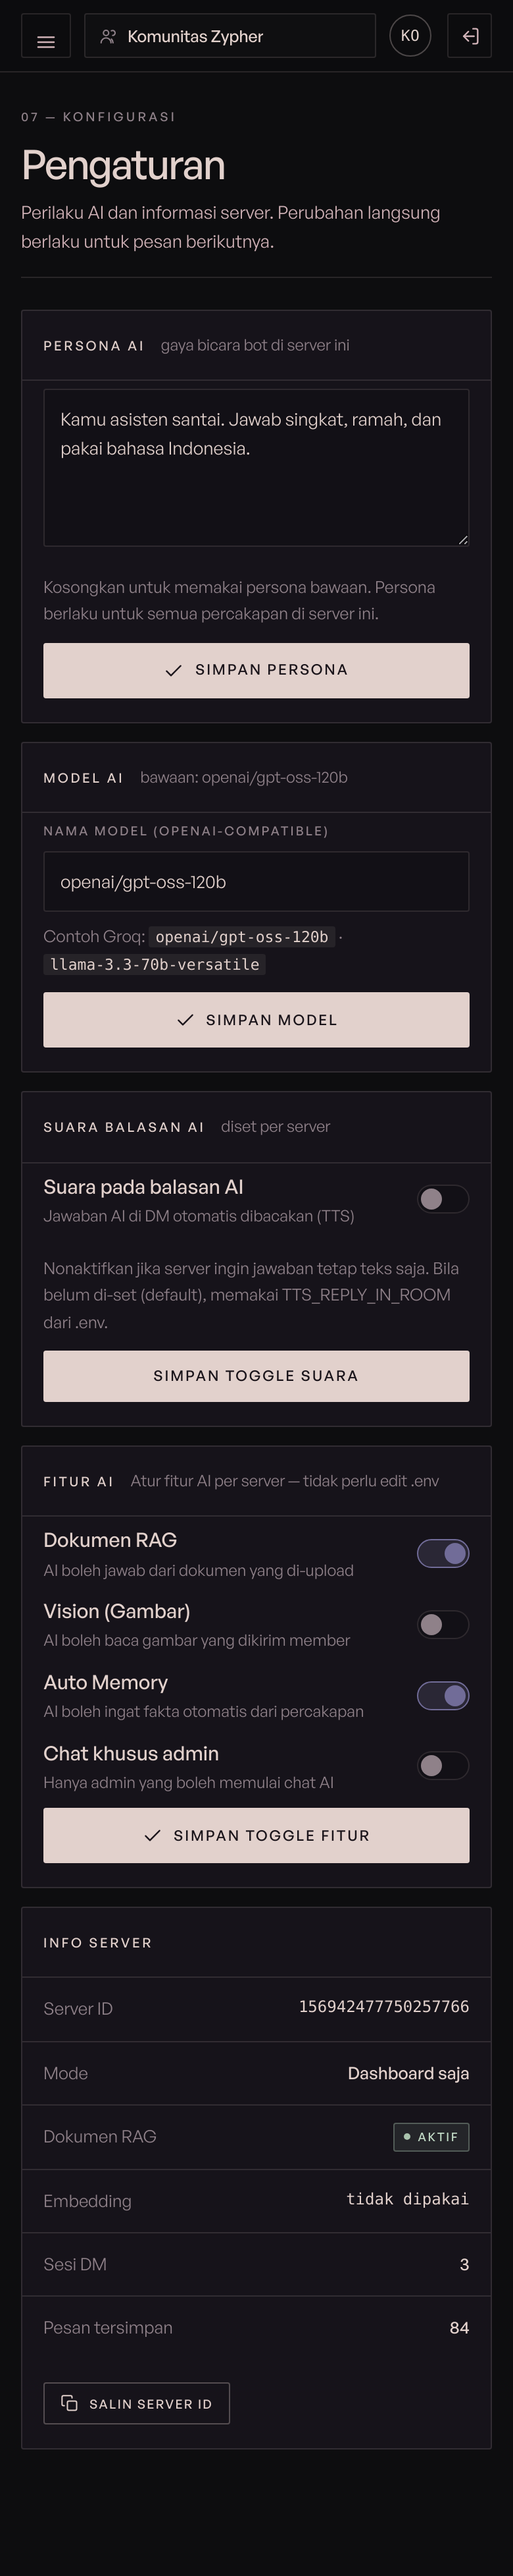
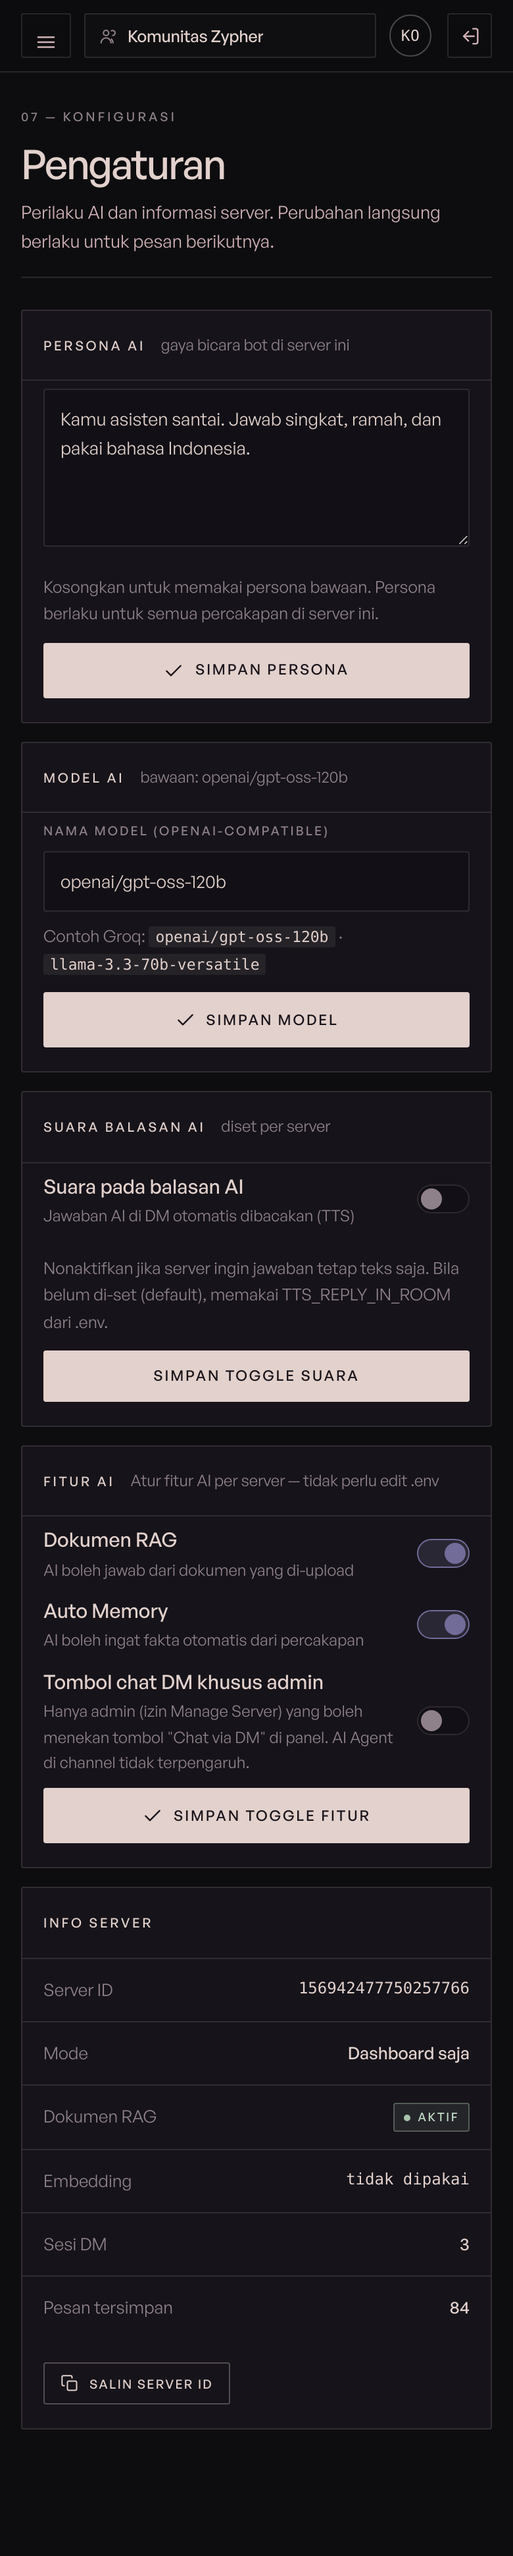
refactor: vision selalu aktif, label toggle admin diperjelas, roadmap dihapus
Pertanyaan: apa arti toggle "Chat khusus admin"? Labelnya ambigu — terbaca
seolah membatasi semua chat AI, padahal ia hanya menjaga satu tombol.

Isi sebenarnya: hanya member dengan izin Manage Server yang boleh menekan
tombol "Chat via DM" di panel server (src/features/buttons.ts). AI Agent di
channel, keyword, moderasi, dan /tanya sama sekali tidak terpengaruh.

Perubahan:
- Label diganti jadi "Tombol chat DM khusus admin" + penjelasan eksplisit
  (izin Manage Server, batasnya sampai mana). Nilai database & env tidak
  berubah, jadi setelan yang sudah ada tetap berlaku.
- Toggle Vision dihapus dan vision dibuat selalu aktif:
  * src/features/vision.ts tidak lagi membaca setelan per server
  * VISION_ENABLED dibuang dari config & .env.example
  * kolom vision_enabled dibuang dari skema SQLite/Postgres, ALTER TABLE,
    rencana migrasi, dan seed screenshot
  * doctor menampilkan "selalu aktif"
  * yang tersisa hanya VISION_MODEL & VISION_MAX_MB
- Roadmap "ide berikutnya" di README dihapus: semua isinya sudah selesai.

Perbaikan tata letak yang ikut ditemukan: penjelasan toggle yang panjang
terpotong di layar HP. .toggle-row adalah grid item dengan min-width:auto,
jadi selebar teksnya (730px di viewport 390px) dan kartu memotong sisanya.
Ditambah .cell-sub mewarisi white-space:nowrap dari aturan mobile. Kini
dibatasi min-width:0 dan penjelasannya dibungkus .toggle-text.

Verifikasi: typecheck 0 error, 219 test lulus (1 baru untuk regresi CSS),
[…]

diff --git a/scripts/smoke.ts b/scripts/smoke.ts
@@ -1155,13 +1155,18 @@ await testAsync('setGuildRagEnabled menyimpan boolean', async () => {
   await setGuildRagEnabled(guild, null);
   assert.equal((await getGuildSettings(guild))?.ragEnabled, null);
 });
-await testAsync('setGuildVisionEnabled menyimpan boolean', async () => {
-  const { setGuildVisionEnabled, getGuildSettings } = await import('../src/db/repo.js');
+await testAsync('vision selalu aktif: tidak ada kolom atau sakelar per server', async () => {
+  const repo = await import('../src/db/repo.js');
+  const { getGuildSettings, setGuildAutoMemory } = repo;
   const guild = '131313131313131313';
-  await setGuildVisionEnabled(guild, true);
-  assert.equal((await getGuildSettings(guild))?.visionEnabled, true);
-  await setGuildVisionEnabled(guild, null);
-  assert.equal((await getGuildSettings(guild))?.visionEnabled, null);
+  await setGuildAutoMemory(guild, true);
+  const settings = await getGuildSettings(guild);
+  assert.ok(settings, 'setelan guild bisa dibaca');
+  assert.equal('visionEnabled' in settings!, false, 'tidak ada field visionEnabled lagi');
+  assert.equal('setGuildVisionEnabled' in repo, false, 'setter vision sudah dihapus');
+
+  const schema = await readFile('src/db/schema.ts', 'utf8');
+  assert.equal(/vision_enabled/.test(schema), false, 'kolom vision_enabled hilang dari skema');
 });
 await testAsync('setGuildAutoMemory menyimpan boolean', async () => {
   const { setGuildAutoMemory, getGuildSettings } = await import('../src/db/repo.js');
@@ -1192,8 +1197,6 @@ test('pengaturanPage menampilkan toggle fitur', () => {
     ttsReplyInRoomDefault: true,
     ragEnabledSetting: null,
     ragEnabledDefault: true,
-    visionEnabledSetting: null,
-    visionEnabledDefault: false,
     autoMemorySetting: null,
     autoMemoryDefault: true,
     adminOnlyRoomsSetting: null,
@@ -1203,9 +1206,17 @@ test('pengaturanPage menampilkan toggle fitur', () => {
     counts: {},
   });
   assert.ok(page.includes('Dokumen RAG'), 'toggle RAG ada');
-  assert.ok(page.includes('Vision'), 'toggle Vision ada');
   assert.ok(page.includes('Auto Memory'), 'toggle Auto Memory ada');
-  assert.ok(page.includes('Chat khusus admin'), 'toggle chat khusus admin ada');
+
+  // Vision selalu aktif: tidak boleh ada sakelar yang bisa mematikannya.
+  assert.equal(page.includes('id="visionEnabled"'), false, 'toggle Vision sudah dihapus');
+
+  // Label lama "Chat khusus admin" ambigu — terbaca seolah membatasi semua chat
+  // AI, padahal hanya tombol DM di panel yang dijaga.
+  assert.equal(page.includes('Chat khusus admin'), false, 'label ambigu sudah diganti');
+  assert.ok(page.includes('Tombol chat DM khusus admin'), 'label baru spesifik');
+  assert.ok(page.includes('Manage Server'), 'menyebut izin yang dicek');
+  assert.ok(page.includes('AI Agent di channel tidak terpengaruh'), 'menjelaskan batasnya');
 });
 
 console.log('\nSlash command di DM');
@@ -2615,6 +2626,24 @@ await testAsync('dashboard: tombol kirim tes ada di kedua halaman', async () => 
   assert.ok(pages.includes("'/api/send-test/agent'"), 'endpoint agent');
   assert.ok(pages.includes('Kirim tes sungguhan'), 'label jelas membedakan dari pratinjau');
   assert.ok(pages.includes('Kirim tes ke channel'), 'tombol agent & perpisahan');
+});
+
+await testAsync('css: baris toggle tidak melebar keluar kartu', async () => {
+  // Bug nyata di HP: .toggle-row adalah grid item, sehingga min-width:auto
+  // membuatnya selebar teks penjelasan (730px di layar 390px) dan kartu
+  // memotong kalimatnya. Dua aturan berikut yang mencegahnya kembali.
+  const theme = await readFile('src/web/ui/theme.ts', 'utf8');
+
+  const rowBlock = theme.slice(theme.indexOf('.toggle-row {'), theme.indexOf('.toggle-row {') + 400);
+  assert.ok(/min-width:\s*0/.test(rowBlock), '.toggle-row punya min-width:0');
+
+  const textBlock = theme.slice(theme.indexOf('.toggle-row .toggle-text .cell-sub'));
+  assert.ok(/white-space:\s*normal/.test(textBlock.slice(0, 300)), 'penjelasan boleh turun baris');
+
+  // Aturan mobile `.cell-sub { white-space:nowrap }` menang bila selektornya
+  // setara — maka selektor kita harus lebih spesifik (3 kelas).
+  const pages = await readFile('src/web/ui/pages.ts', 'utf8');
+  assert.ok(pages.includes('class="toggle-text"'), 'teks toggle dibungkus .toggle-text');
 });
 
 await testAsync('kirim tes: pesan benar-benar terkirim lewat channel (channel palsu)', async () => {

diff --git a/src/web/server.ts b/src/web/server.ts
@@ -40,7 +40,6 @@ import {
   setGuildModel,
   setGuildTtsReplyInRoom,
   setGuildRagEnabled,
-  setGuildVisionEnabled,
   setGuildAutoMemory,
   setGuildAdminOnlyRooms,
   setModerationSettings,
@@ -685,8 +684,6 @@ async function handle(request: IncomingMessage, response: ServerResponse): Promi
         ttsReplyInRoomDefault: config.voice.ttsReplyInRoom,
         ragEnabledSetting: settings?.ragEnabled ?? null,
         ragEnabledDefault: config.rag.enabled,
-        visionEnabledSetting: settings?.visionEnabled ?? null,
-        visionEnabledDefault: config.vision.enabled,
         autoMemorySetting: settings?.autoMemory ?? null,
         autoMemoryDefault: config.features.autoMemory,
         adminOnlyRoomsSetting: settings?.adminOnlyRooms ?? null,
@@ -804,7 +801,7 @@ async function handle(request: IncomingMessage, response: ServerResponse): Promi
     }
 
     const raw = await readBody(request, 32 * 1024);
-    let payload: { persona?: unknown; model?: unknown; ttsReplyInRoom?: unknown; ragEnabled?: unknown; visionEnabled?: unknown; autoMemory?: unknown; adminOnlyRooms?: unknown };
+    let payload: { persona?: unknown; model?: unknown; ttsReplyInRoom?: unknown; ragEnabled?: unknown; autoMemory?: unknown; adminOnlyRooms?: unknown };
     try {
       payload = JSON.parse(raw) as { persona?: unknown; model?: unknown };
     } catch {
@@ -846,14 +843,6 @@ async function handle(request: IncomingMessage, response: ServerResponse): Promi
       await setGuildRagEnabled(guildId, payload.ragEnabled);
     }
 
-    if (payload.visionEnabled !== undefined) {
-      if (typeof payload.visionEnabled !== 'boolean') {
-        sendJson(response, 400, { error: 'visionEnabled harus boolean.' });
-        return;
-      }
-      await setGuildVisionEnabled(guildId, payload.visionEnabled);
-    }
-
     if (payload.autoMemory !== undefined) {
       if (typeof payload.autoMemory !== 'boolean') {
         sendJson(response, 400, { error: 'autoMemory harus boolean.' });
@@ -877,7 +866,6 @@ async function handle(request: IncomingMessage, response: ServerResponse): Promi
       model: settings?.model ?? null,
       ttsReplyInRoom: settings?.ttsReplyInRoom ?? null,
       ragEnabled: settings?.ragEnabled ?? null,
-      visionEnabled: settings?.visionEnabled ?? null,
       autoMemory: settings?.autoMemory ?? null,
       adminOnlyRooms: settings?.adminOnlyRooms ?? null,
     });

diff --git a/src/web/ui/pages.ts b/src/web/ui/pages.ts
@@ -730,8 +730,6 @@ export function pengaturanPage(
     ttsReplyInRoomDefault: boolean;
     ragEnabledSetting: boolean | null;
     ragEnabledDefault: boolean;
-    visionEnabledSetting: boolean | null;
-    visionEnabledDefault: boolean;
     autoMemorySetting: boolean | null;
     autoMemoryDefault: boolean;
     adminOnlyRoomsSetting: boolean | null;
@@ -803,16 +801,6 @@ export function pengaturanPage(
   </div>
   <div class="toggle-row">
     <div>
-      <div class="cell-title">Vision (Gambar)</div>
-      <div class="cell-sub">AI boleh baca gambar yang dikirim member</div>
-    </div>
-    <label class="switch">
-      <input type="checkbox" id="visionEnabled"${(options.visionEnabledSetting ?? options.visionEnabledDefault) ? ' checked' : ''}>
-      <span class="slider"></span>
-    </label>
-  </div>
-  <div class="toggle-row">
-    <div>
       <div class="cell-title">Auto Memory</div>
       <div class="cell-sub">AI boleh ingat fakta otomatis dari percakapan</div>
     </div>
@@ -822,9 +810,9 @@ export function pengaturanPage(
     </label>
   </div>
   <div class="toggle-row">
-    <div>
-      <div class="cell-title">Chat khusus admin</div>
-      <div class="cell-sub">Hanya admin yang boleh memulai chat AI</div>
+    <div class="toggle-text">
+      <div class="cell-title">Tombol chat DM khusus admin</div>
+      <div class="cell-sub">Hanya admin (izin Manage Server) yang boleh menekan tombol &quot;Chat via DM&quot; di panel. AI Agent di channel tidak terpengaruh.</div>
     </div>
     <label class="switch">
       <input type="checkbox" id="adminOnlyRooms"${(options.adminOnlyRoomsSetting ?? options.adminOnlyRoomsDefault) ? ' checked' : ''}>
@@ -882,7 +870,6 @@ async function saveFeatureToggles() {
   const payload = {
     guild: ${JSON.stringify(options.guildId)},
     ragEnabled: document.getElementById('ragEnabled').checked,
-    visionEnabled: document.getElementById('visionEnabled').checked,
     autoMemory: document.getElementById('autoMemory').checked,
     adminOnlyRooms: document.getElementById('adminOnlyRooms').checked,
   };

diff --git a/src/db/repo.ts b/src/db/repo.ts
@@ -20,8 +20,6 @@ export interface GuildSettings {
   ttsReplyInRoom: boolean | null;
   /** AI boleh jawab dari dokumen. `null` = memakai RAG_ENABLED dari .env. */
   ragEnabled: boolean | null;
-  /** AI boleh baca gambar. `null` = memakai VISION_ENABLED dari .env. */
-  visionEnabled: boolean | null;
   /** AI boleh ingat otomatis. `null` = memakai AUTO_MEMORY dari .env. */
   autoMemory: boolean | null;
   /** Hanya admin yang boleh memulai chat AI. `null` = memakai ADMIN_ONLY_ROOMS dari .env. */
@@ -107,7 +105,6 @@ interface GuildRow {
   model: string | null;
   tts_reply_in_room: number | boolean | null;
   rag_enabled: number | boolean | null;
-  vision_enabled: number | boolean | null;
   auto_memory: number | boolean | null;
   admin_only_rooms: number | boolean | null;
   created_at: number;
@@ -165,8 +162,6 @@ const toGuild = (row: GuildRow): GuildSettings => ({
       : Boolean(row.tts_reply_in_room),
   ragEnabled:
     row.rag_enabled === null || row.rag_enabled === undefined ? null : Boolean(row.rag_enabled),
-  visionEnabled:
-    row.vision_enabled === null || row.vision_enabled === undefined ? null : Boolean(row.vision_enabled),
   autoMemory:
     row.auto_memory === null || row.auto_memory === undefined ? null : Boolean(row.auto_memory),
   adminOnlyRooms:
@@ -259,12 +254,6 @@ export async function setGuildTtsReplyInRoom(guildId: string, enabled: boolean |
 export async function setGuildRagEnabled(guildId: string, enabled: boolean | null): Promise<void> {
   await ensureGuild(guildId);
   await run('UPDATE guilds SET rag_enabled = ? WHERE guild_id = ?', [enabled === null ? null : enabled ? 1 : 0, guildId]);
-}
-
-/** AI boleh baca gambar. `null` = pakai VISION_ENABLED dari .env. */
-export async function setGuildVisionEnabled(guildId: string, enabled: boolean | null): Promise<void> {
-  await ensureGuild(guildId);
-  await run('UPDATE guilds SET vision_enabled = ? WHERE guild_id = ?', [enabled === null ? null : enabled ? 1 : 0, guildId]);
 }
 
 /** AI boleh ingat otomatis. `null` = pakai AUTO_MEMORY dari .env. */

diff --git a/src/web/ui/theme.ts b/src/web/ui/theme.ts
@@ -646,8 +646,24 @@ dialog.confirm::backdrop { background: rgba(8, 6, 9, .8); backdrop-filter: blur(
 .toggle-row {
   display: flex; align-items: center; justify-content: space-between;
   gap: 16px; width: 100%;
+  /* .toggle-row adalah grid item (induknya display:grid). Grid item punya
+     min-width:auto, jadi tanpa baris ini ia selebar teks penjelasan dan
+     kartu memotong sisanya di layar HP. */
+  min-width: 0;
 }
-.toggle-row > div { min-width: 0; }
+/* Sama untuk anak flex-nya: .switch dikecualikan supaya tetap 40x22 px. */
+.toggle-row > div { min-width: 0; flex: 1 1 auto; }
+.toggle-row > .switch { flex: 0 0 auto; }
+/* Penjelasan boleh turun baris; jangan dihitung selebar satu baris teksnya.
+   Tanpa nowrap-reset, .cell-sub mewarisi white-space dari aturan tabel
+   (nowrap + ellipsis) sehingga kalimatnya terpotong, bukan dibungkus. */
+.toggle-row .toggle-text .cell-sub {
+  max-width: 100%;
+  white-space: normal;
+  overflow: visible;
+  text-overflow: clip;
+  word-break: break-word;
+}
 
 /* Switch: input asli dipakai untuk aksesibilitas, tampilannya kotak geser. */
 .switch {

diff --git a/src/features/vision.ts b/src/features/vision.ts
@@ -1,6 +1,5 @@
 import type { Message } from 'discord.js';
 import { config } from '../config.js';
-import { getGuildSettings } from '../db/repo.js';
 import { errorMessage, logger } from '../lib/logger.js';
 
 /**
@@ -55,8 +54,9 @@ const EMPTY: CollectedImages = { dataUris: [], skipped: [] };
  */
 export async function collectImages(message: Message, limit = 3): Promise<CollectedImages> {
   if (!message.guildId) return EMPTY;
-  const settings = await getGuildSettings(message.guildId);
-  if (!(settings?.visionEnabled ?? config.vision.enabled) || message.attachments.size === 0) return EMPTY;
+  // Vision selalu aktif — tidak ada sakelar per server. Gambar apa pun yang
+  // lolos filter di bawah akan dicoba dibaca model multimodal.
+  if (message.attachments.size === 0) return EMPTY;
 
   const candidates = [...message.attachments.values()]
     .filter((attachment) => isImageAttachment(attachment.name, attachment.contentType))

diff --git a/src/config.ts b/src/config.ts
@@ -169,7 +169,6 @@ const schema = z.object({
   MODERATION_ACTION: z.enum(['delete', 'warn', 'timeout']).default('delete'),
   MODERATION_TIMEOUT_MINUTES: numberish(10, 1, 10080),
   // ---------- Vision (gambar) ----------
-  VISION_ENABLED: booleanish(false),
   VISION_MODEL: z.string().default('meta-llama/llama-4-scout-17b-16e-instruct'),
   VISION_MAX_MB: numberish(5, 1, 20),
   // ---------- Suara (STT/TTS, endpoint OpenAI-compatible mis. Groq) ----------
@@ -307,7 +306,9 @@ export const config = {
     timeoutMinutes: env.MODERATION_TIMEOUT_MINUTES,
   },
   vision: {
-    enabled: env.VISION_ENABLED,
+    // Selalu aktif: tidak ada sakelar on/off. Kalau `VISION_MODEL` bukan model
+    // multimodal, provider akan menolak dan alasannya diteruskan ke admin —
+    // lebih jujur daripada gambar diam-diam diabaikan.
     model: env.VISION_MODEL,
     maxBytes: env.VISION_MAX_MB * 1024 * 1024,
   },

diff --git a/src/features/agent.ts b/src/features/agent.ts
@@ -122,8 +122,8 @@ async function composeReply(
   const name = speakerName(message);
 
   const question = describeIncoming(message);
-  // Gambar hanya dibaca kalau admin mengizinkan — hemat biaya dan lebih aman.
-  // `collectImages` sudah menghormati toggle Vision per server.
+  // Gambar hanya dibaca kalau admin menyalakan opsi gambar AI Agent — hemat
+  // biaya. Vision sendiri selalu aktif, tidak ada toggle global lagi.
   const collected = settings.reactImages ? await collectImages(message) : { dataUris: [], skipped: [] };
   const images = collected.dataUris;
   if (!question && images.length === 0) return null;

diff --git a/src/db/index.ts b/src/db/index.ts
@@ -37,9 +37,6 @@ async function migrateExistingDatabase(driver: Driver): Promise<void> {
       ? 'ALTER TABLE guilds ADD COLUMN IF NOT EXISTS rag_enabled BOOLEAN'
       : 'ALTER TABLE guilds ADD COLUMN rag_enabled INTEGER',
     driver.dialect === 'pg'
-      ? 'ALTER TABLE guilds ADD COLUMN IF NOT EXISTS vision_enabled BOOLEAN'
-      : 'ALTER TABLE guilds ADD COLUMN vision_enabled INTEGER',
-    driver.dialect === 'pg'
       ? 'ALTER TABLE guilds ADD COLUMN IF NOT EXISTS auto_memory BOOLEAN'
       : 'ALTER TABLE guilds ADD COLUMN auto_memory INTEGER',
     driver.dialect === 'pg'

diff --git a/scripts/migrate-to-pg.ts b/scripts/migrate-to-pg.ts
@@ -26,7 +26,7 @@ interface TablePlan {
 
 /** Urutan penting: tabel induk dulu supaya foreign key tidak protes. */
 const TABLES: TablePlan[] = [
-  { name: 'guilds', columns: ['guild_id', 'name', 'persona', 'model', 'tts_reply_in_room', 'rag_enabled', 'vision_enabled', 'auto_memory', 'admin_only_rooms', 'created_at'] },
+  { name: 'guilds', columns: ['guild_id', 'name', 'persona', 'model', 'tts_reply_in_room', 'rag_enabled', 'auto_memory', 'admin_only_rooms', 'created_at'] },
   {
     name: 'memories',
     columns: ['id', 'guild_id', 'user_id', 'content', 'source', 'created_at'],

diff --git a/src/db/schema.ts b/src/db/schema.ts
@@ -10,7 +10,6 @@ CREATE TABLE IF NOT EXISTS guilds (
   model          TEXT,
   tts_reply_in_room INTEGER,
   rag_enabled    INTEGER,
-  vision_enabled INTEGER,
   auto_memory    INTEGER,
   admin_only_rooms INTEGER,
   created_at     INTEGER NOT NULL
@@ -186,7 +185,6 @@ CREATE TABLE IF NOT EXISTS guilds (
   model             TEXT,
   tts_reply_in_room BOOLEAN,
   rag_enabled       BOOLEAN,
-  vision_enabled    BOOLEAN,
   auto_memory       BOOLEAN,
   admin_only_rooms  BOOLEAN,
   created_at        BIGINT NOT NULL

diff --git a/scripts/screenshots-seed.ts b/scripts/screenshots-seed.ts
@@ -50,8 +50,8 @@ const hour = 3_600_000;
 const day = 24 * hour;
 
 await run(
-  `INSERT INTO guilds (guild_id, name, persona, model, rag_enabled, vision_enabled, auto_memory, admin_only_rooms, tts_reply_in_room, created_at)
-   VALUES (?, ?, ?, ?, 1, 0, 1, 0, 0, ?)`,
+  `INSERT INTO guilds (guild_id, name, persona, model, rag_enabled, auto_memory, admin_only_rooms, tts_reply_in_room, created_at)
+   VALUES (?, ?, ?, ?, 1, 1, 0, 0, ?)`,
   [
     GUILD,
     GUILD_NAME,
